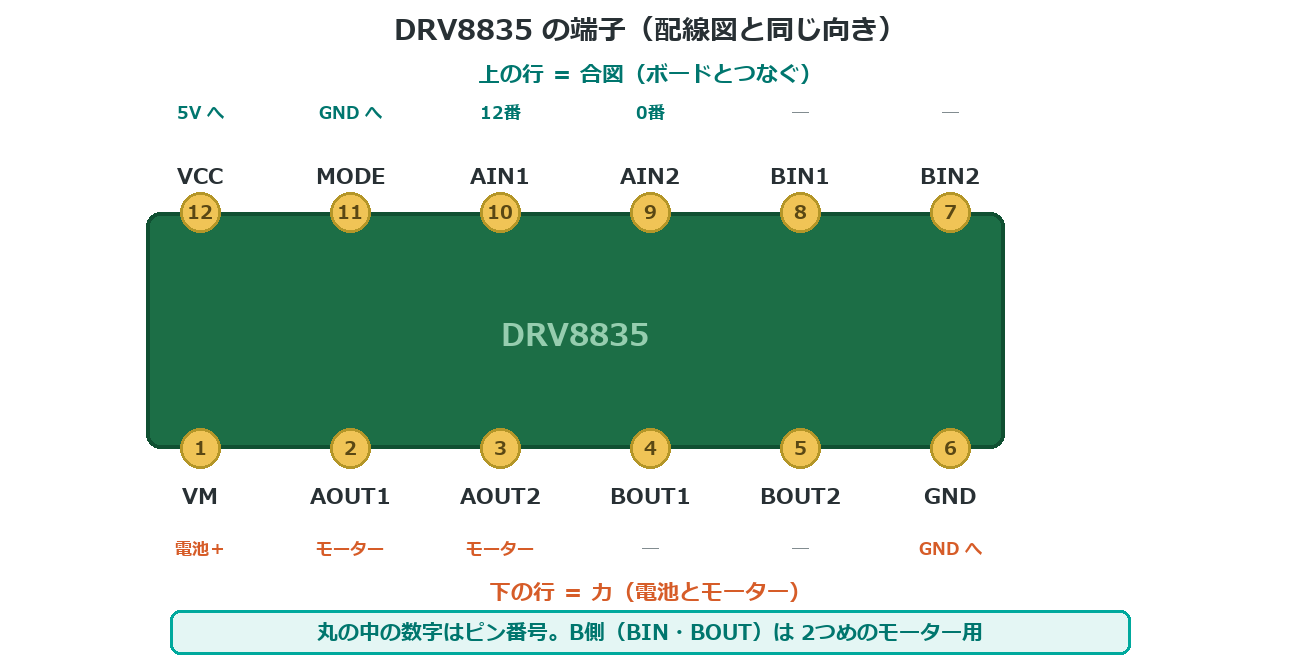
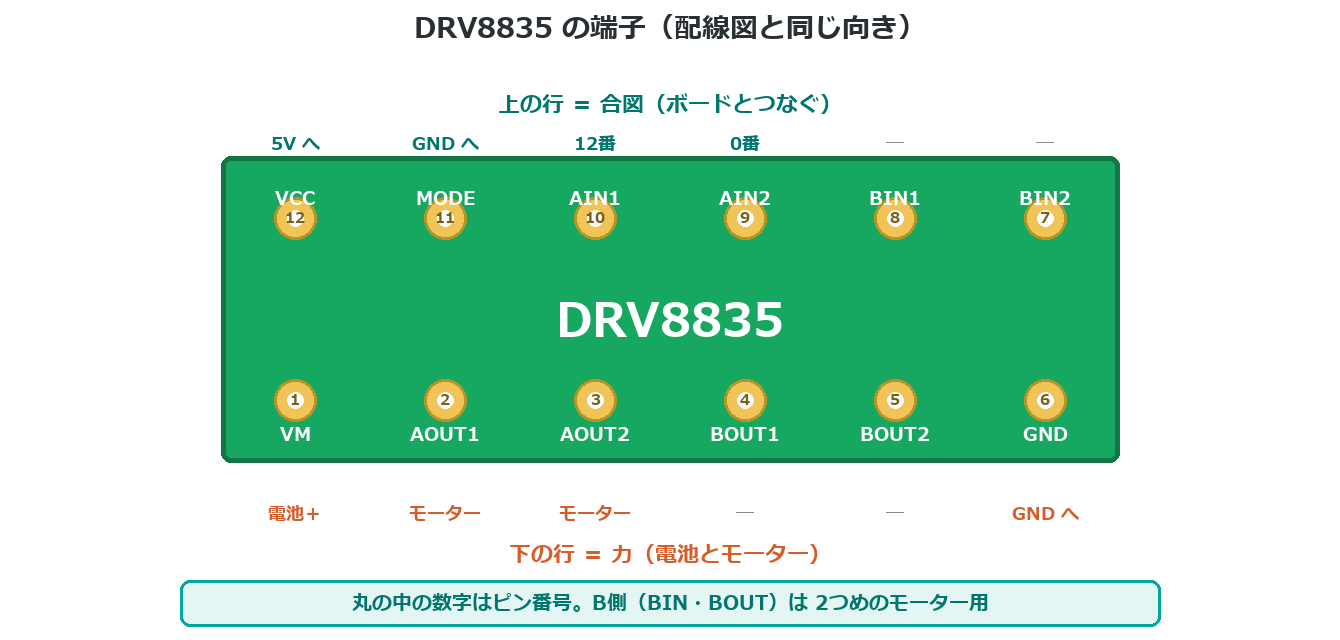
DRV8835 の拡大図を、モジュール基板らしい見た目にした
端子を基板の外に描いていたので IC のように見えていた。実物の
モジュール基板と同じく、端子を基板の内がわに置き、名前はその
すぐ内に印刷されている形にした。

- 基板の緑を明るくして、配線図の DIP と同じ見え方に
- 端子は金色のランド＋中央のあな（実物のスルーホール）
- ピン番号はランドの中に小さく
- 基板を中央にそろえた

つなぎ先（5V へ／12番／電池＋ など）と色分けは今までどおり。

diff --git a/tools/fig_drv8835_pins.py b/tools/fig_drv8835_pins.py
@@ -1,15 +1,17 @@
 # -*- coding: utf-8 -*-
 """e5 モータードライバの端子の拡大図。
 
-配線図（bb_drv8835.png）と**同じ向き・同じ色**にしてある。
-上の行が合図、下の行が力。ピン番号は資料 AE-DRV8835-S のとおり。
+配線図（bb_drv8835.png）と**同じ向き・同じ色**。
+端子は基板の**内がわ**にあり、名前はそのすぐ外に印刷されている
+（実物のモジュール基板と同じ見え方）。
+ピン番号は資料 AE-DRV8835-S のとおり。
 """
 import sys
 sys.path.insert(0, "tools")
 sys.stdout.reconfigure(encoding="utf-8")
 from fig import *
 
-GREEN, GREEN_E = (28, 110, 70), (16, 80, 50)
+GREEN, GREEN_E = (22, 168, 96), (18, 118, 70)
 GOLD, GOLD_E   = (240, 196, 86), (180, 150, 40)
 SIG, PWR       = (0, 118, 110), (214, 92, 40)
 
@@ -18,29 +20,32 @@ TOP = [("VCC", 12, "5V へ"), ("MODE", 11, "GND へ"), ("AIN1", 10, "12番"),
 BOT = [("VM", 1, "電池＋"), ("AOUT1", 2, "モーター"), ("AOUT2", 3, "モーター"),
        ("BOUT1", 4, "―"), ("BOUT2", 5, "―"), ("GND", 6, "GND へ")]
 
-P, X0 = 150, 200                            # 端子の間かく ／ 左はし
-im, d = canvas(1300, 660)
-center(d, 650, 10, "DRV8835 の端子（配線図と同じ向き）", bold(28), INK)
+P = 150                                     # 端子の間かく
+X0 = (1340 - 5 * P) / 2                     # 左はしの端子（中央ぞろえ）
+im, d = canvas(1340, 640)
+center(d, 670, 8, "DRV8835 の端子（配線図と同じ向き）", bold(28), INK)
 
-x1, x2 = X0 - 54, X0 + 5 * P + 54
-y1, y2 = 212, 448
-d.rounded_rectangle([x1, y1, x2, y2], radius=14, fill=GREEN, outline=GREEN_E, width=4)
-center(d, (x1 + x2) / 2, (y1 + y2) / 2 - 16, "DRV8835", bold(30), (150, 205, 175))
+x1, x2 = X0 - 74, X0 + 5 * P + 74           # 基板。端子より外まで広げる
+yt, yb = 218, 400                           # 端子の行
+d.rounded_rectangle([x1, yt - 62, x2, yb + 62], radius=10,
+                    fill=GREEN, outline=GREEN_E, width=5)
+center(d, 670, 288, "DRV8835", bold(46), WHITE)
 
-for row, items, yy, col, note_y in ((0, TOP, y1, SIG, 100), (1, BOT, y2, PWR, 536)):
+for items, yy, col, name_dy, use_y in ((TOP, yt, SIG, -34, 130),
+                                       (BOT, yb, PWR, 20, 500)):
     for i, (lab, num, use) in enumerate(items):
         x = X0 + i * P
-        d.ellipse([x - 20, yy - 20, x + 20, yy + 20], fill=GOLD, outline=GOLD_E, width=3)
-        middle(d, x, yy, str(num), bold(19), (90, 72, 20))     # ピン番号
-        dy = -52 if row == 0 else 32
-        center(d, x, yy + dy, lab, bold(22), WHITE if False else INK)
-        center(d, x, note_y, use, bold(17),
-               col if use != "―" else GRAY)
+        d.ellipse([x - 21, yy - 21, x + 21, yy + 21], fill=GOLD,
+                  outline=GOLD_E, width=3)
+        d.ellipse([x - 8, yy - 8, x + 8, yy + 8], fill=(250, 250, 248))
+        middle(d, x, yy, str(num), bold(15), (120, 96, 28))      # ピン番号
+        center(d, x, yy + name_dy, lab, bold(19), WHITE)         # 基板の印刷
+        center(d, x, use_y, use, bold(18), col if use != "―" else GRAY)
 
-center(d, 650, 58, "上の行 ＝ 合図（ボードとつなぐ）", bold(22), SIG)
-center(d, 650, 576, "下の行 ＝ 力（電池とモーター）", bold(22), PWR)
-d.rounded_rectangle([170, 610, 1130, 654], radius=10, fill=SOFT, outline=TEAL, width=3)
-middle(d, 650, 632, "丸の中の数字はピン番号。B側（BIN・BOUT）は 2つめのモーター用",
-       bold(21), DARKTEAL)
+center(d, 670, 88, "上の行 ＝ 合図（ボードとつなぐ）", bold(22), SIG)
+center(d, 670, 538, "下の行 ＝ 力（電池とモーター）", bold(22), PWR)
+d.rounded_rectangle([180, 580, 1160, 626], radius=10, fill=SOFT, outline=TEAL, width=3)
+middle(d, 670, 603, "丸の中の数字はピン番号。B側（BIN・BOUT）は 2つめのモーター用",
+       bold(20), DARKTEAL)
 save(im, "e5_motor", "drv8835_pins.png")
-print("  比 %.2f" % (1300 / 660))
+print("  比 %.2f" % (1340 / 640))
